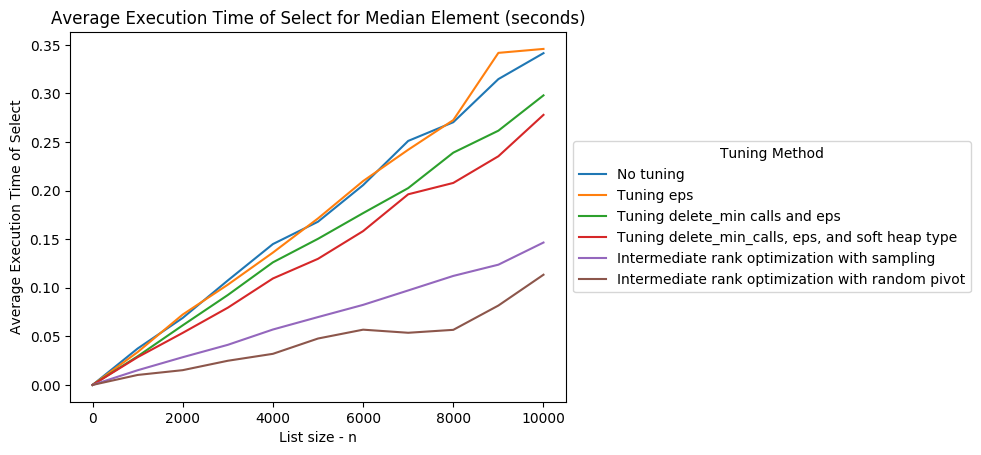
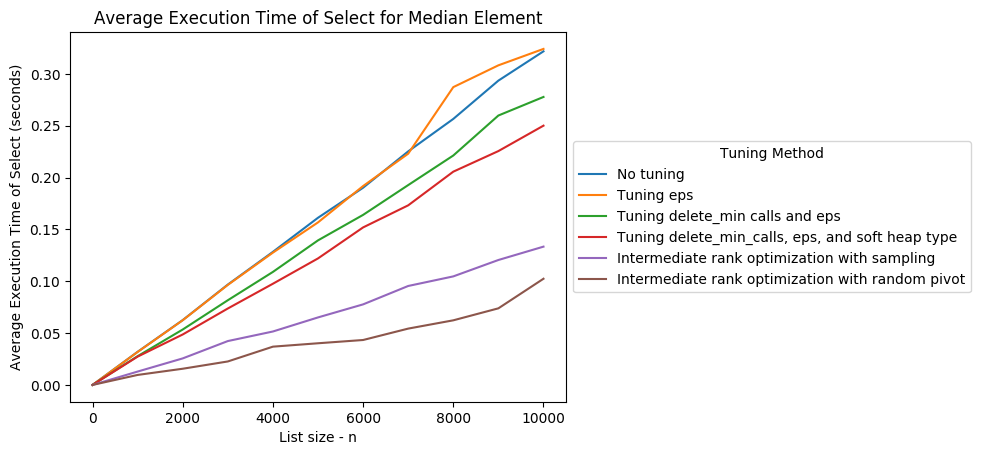
Fixes to plot labels

diff --git a/linear_select.py b/linear_select.py
@@ -194,7 +194,7 @@ def make_plot1(data, filename):
 		ax.plot(data['x'], data['y' + str(i)])
 	ax.set_xlabel('Rank of Element to Select - k')
 	ax.set_ylabel('Average Execution Time of Select (seconds)')
-	ax.set_title('Average Execution Time of Select (seconds)')
+	ax.set_title('Average Execution Time of Select')
 	labels = ['No tuning', 'Tuning eps', 'Tuning delete_min calls and eps', 'Tuning delete_min_calls, eps, and soft heap type', 'Intermediate rank optimization with sampling', 'Intermediate rank optimization with random pivot']
 	lgd = plt.legend(labels=labels, title='Tuning Method', loc='center left', bbox_to_anchor=(1, 0.5))
 	plt.savefig(filename, bbox_extra_artists=(lgd,), bbox_inches='tight', format='png')
@@ -235,7 +235,7 @@ def make_plot2(data, title, filename):
 	for i in range(1, 7):
 		ax.plot(data['x'], data['y' + str(i)])
 	ax.set_xlabel('List size - n')
-	ax.set_ylabel('Average Execution Time of Select')
+	ax.set_ylabel('Average Execution Time of Select (seconds)')
 	ax.set_title(title)
 	labels = ['No tuning', 'Tuning eps', 'Tuning delete_min calls and eps', 'Tuning delete_min_calls, eps, and soft heap type', 'Intermediate rank optimization with sampling', 'Intermediate rank optimization with random pivot']
 	lgd = plt.legend(labels=labels, title='Tuning Method', loc='center left', bbox_to_anchor=(1, 0.5))
@@ -288,19 +288,13 @@ def main():
 	# make_plot1(data, 'exp1_new.png')
 
 	# data = run_exp2()
-	# make_plot2(data, 'Average Execution Time of Select for Minimum Element (seconds)', 'exp2_min_new.png')
-
-	# data = run_exp2(p=1/3)
-	# make_plot2(data, 'Average Execution Time of Select for Rank n/3 Element (seconds)', 'exp2_third.png')
+	# make_plot2(data, 'Average Execution Time of Select for Minimum Element', 'exp2_min_new.png')
 
 	# data = run_exp2(p=1/2)
-	# make_plot2(data, 'Average Execution Time of Select for Median Element (seconds)', 'exp2_med_new.png')
-
-	# data = run_exp2(p=2/3)
-	# make_plot2(data, 'Average Execution Time of Select for Rank 2n/3 Element (seconds)', 'exp2_twothirds.png')
+	# make_plot2(data, 'Average Execution Time of Select for Median Element', 'exp2_med_new.png')
 
 	# data = run_exp2(p=1)
-	# make_plot2(data, 'Average Execution Time of Select for Maximum Element (seconds)', 'exp2_max_new.png')
+	# make_plot2(data, 'Average Execution Time of Select for Maximum Element', 'exp2_max_new.png')
 
 if __name__ == '__main__':
 	main()
